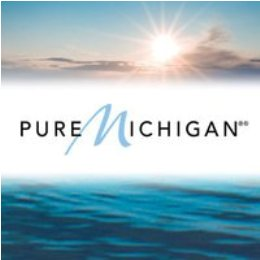
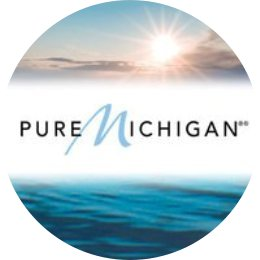
Added remaining photo and changed the styles to incorporate the photo- this included deleting some media queries. Modified some of the images in my timeline to make them cleaner looking within the bubbles

diff --git a/index.html b/index.html
@@ -96,6 +96,9 @@
                   <br />
                 -Will Durant</span>
                 </h1>
+                <h2 class="wp2">
+                  My Skills
+                </h2>
                 <div class="features-wrapper">
                   <div class="col-md-3 wp2">
                     <div class="icon">
@@ -272,35 +275,35 @@
                     <div class="col-md-4 wp4">
                       <div class="overlay-effect effects clearfix">
                         <div class="img">
-                          <img src="img/kitty.jpg" alt="Portfolio Item">
+                          <img src="img/starBread.jpg" alt="Portfolio Item">
                           <div class="overlay">
-                            <a href="#" class="expand"><i class="fa fa-search"></i><br>Patience, Grasshopper</a>
+                            <a class="expand"><i class="fa fa-search"></i><br>Patience, Grasshopper</a>
                             <a class="close-overlay hidden">x</a>
                           </div>
                         </div>
                       </div>
                       <h2>More to Come</h2>
-                      <p>But meanwhile enjoy a picture of my kitty, Amunet!</p>
+                      <p>But meanwhile, enjoy a picture of some black raspberry star bread I made!</p>
                     </div>
                     <div class="col-md-4 wp4 delay-05s">
                       <div class="overlay-effect effects clearfix">
                         <div class="img">
-                          <img src="img/starBread.jpg" alt="Portfolio Item">
+                          <img src="img/kitty.jpg" alt="Portfolio Item">
                           <div class="overlay">
-                            <a href="#" class="expand"><i class="fa fa-search"></i><br>Patience, Grasshopper</a>
+                            <a class="expand"><i class="fa fa-search"></i><br>Patience, Grasshopper</a>
                             <a class="close-overlay hidden">x</a>
                           </div>
                         </div>
                       </div>
                       <h2>More to Come</h2>
-                      <p>Also enjoy a picture of some black raspberry star bread I made!</p>
+                      <p>Also, enjoy a picture of my super cute rambunctious kitty, Amunet!</p>
                     </div>
                     <div class="col-md-4 wp4 delay-1s">
                       <div class="overlay-effect effects clearfix">
                         <div class="img">
                           <img src="img/sushi.jpg" alt="Portfolio Item">
                           <div class="overlay">
-                            <a href="#" class="expand"><i class="fa fa-search"></i><br>Patience, Grasshopper</a>
+                            <a class="expand"><i class="fa fa-search"></i><br>Patience, Grasshopper</a>
                             <a class="close-overlay hidden">x</a>
                           </div>
                         </div>
@@ -320,25 +323,25 @@
           <div class="container">
             <div class="row">
               <div class="col-md-12">
-              <div class="col-md-10 col-md-offset-1">
-                <div class="quote-slideshow">
-                  <figure class="show"><h2>“Live as if you were to die tomorrow. Learn as if you were to live forever.” </h2>
-                  <figcaption>
-                    - Mahatma Gandhi
-                  </figcaption>
-                  </figure>
-                  <figure><h2>“The difference between knowledge and wisdom is the former makes you a living, whilst the latter makes life worth living.”</h2>
-                  <figcaption>
-                    ― Habeeb Akande
-                  </figcaption>
-                  </figure>
-                  <figure><h2>"The capacity to learn is a gift; The ability to learn is a skill; The 
-                  willingness to learn is a choice.”</h2>
-                  <figcaption>
-                    ― Brian Herbert
-                  </figcaption>
-                  </figure>
-                </div>
+                <div class="col-md-10 col-md-offset-1">
+                  <div class="quote-slideshow">
+                    <figure class="show"><h2>“Live as if you were to die tomorrow. Learn as if you were to live forever.” </h2>
+                    <figcaption>
+                      - Mahatma Gandhi
+                    </figcaption>
+                    </figure>
+                    <figure><h2>“The difference between knowledge and wisdom is the former makes you a living, whilst the latter makes life worth living.”</h2>
+                    <figcaption>
+                      ― Habeeb Akande
+                    </figcaption>
+                    </figure>
+                    <figure><h2>"The capacity to learn is a gift; The ability to learn is a skill; The 
+                    willingness to learn is a choice.”</h2>
+                    <figcaption>
+                      ― Brian Herbert
+                    </figcaption>
+                    </figure>
+                  </div>
                 </div>
                 <span class="quote-prev circle"><i class="fa fa-angle-left fa-2x"></i></span>
                 <span class="quote-next circle"><i class="fa fa-angle-right fa-2x"></i></span>
@@ -353,7 +356,9 @@
             <div class="row">
               <div class="col-lg-12 text-center">
                 <h2 class="section-heading">About</h2>
-                <h3 class="section-subheading text-muted"><em>The road has been long, and I still have a ways to go, but I know whichever direction I choose, it will lead me to where I need to go.</em></h3>
+                <h3 class="section-subheading text-muted"><em>The road has been long, and I still have a ways to go, but I know whichever direction I choose,
+                <br  /> 
+                it will lead me to where I need to go.</em></h3>
               </div>
             </div>
             <div class="row">
@@ -387,7 +392,7 @@
                   </li>
                   <li class="timeline-inverted">
                     <div class="timeline-image">
-                      <a href="http://www.cdc.gov/" target="_blank"><img alt="Ptr" class="img-circle img-responsive" src="img/cdc.jpg" /></a>
+                      <a href="http://www.cdc.gov/" target="_blank"><img alt="CDC building" class="img-circle img-responsive" src="img/cdc.jpg" /></a>
                     </div>
                     <div class="timeline-panel">
                       <div class="timeline-heading">
@@ -400,7 +405,7 @@
                   </li>
                   <li>
                     <div class="timeline-image">
-                      <a href="http://teamtreehouse.com/" target="_blank"><img alt="Wyncode" class="img-circle img-responsive" src="img/coding.png" /></a>
+                      <a href="http://teamtreehouse.com/" target="_blank"><img alt="Treehouse Coding" class="img-circle img-responsive" src="img/coding.png" /></a>
                     </div>
                     <div class="timeline-panel">
                       <div class="timeline-heading">
@@ -464,9 +469,9 @@
                       <p>Please feel free to <a href="#contact">contact me</a>- I'd love to work with you!</p>
                       <div class="social">
                         <ul class="social-buttons">
-                          <li><a href="https://www.linkedin.com/pub/amy-dusek-bsn-rn/36/313/8b7" class="social-btn"><i class="fa fa-linkedin"></i></a></li>
-                          <li><a href="https://twitter.com/amlydu" class="social-btn"><i class="fa fa-twitter"></i></a></li>
-                          <li><a href="http://instagram.com/amlydu7211/" class="social-btn"><i class="fa fa-instagram"></i></a></li>
+                          <li><a href="https://www.linkedin.com/pub/amy-dusek-bsn-rn/36/313/8b7" target="_blank" class="social-btn"><i class="fa fa-linkedin"></i></a></li>
+                          <li><a href="https://twitter.com/amlydu" target="_blank" class="social-btn"><i class="fa fa-twitter"></i></a></li>
+                          <li><a href="http://instagram.com/amlydu7211/" target="_blank" class="social-btn"><i class="fa fa-instagram"></i></a></li>
                         </ul>
                       </div>
                     </div>
@@ -517,9 +522,9 @@
             <div class="row">
               <div class="col-md-12">
                 <ul class="social-buttons">
-                  <li><a href="https://www.linkedin.com/pub/amy-dusek-bsn-rn/36/313/8b7" class="social-btn"><i class="fa fa-linkedin"></i></a></li>
-                  <li><a href="https://twitter.com/amlydu" class="social-btn"><i class="fa fa-twitter"></i></a></li>
-                  <li><a href="http://instagram.com/amlydu7211/" class="social-btn"><i class="fa fa-instagram"></i></a></li>
+                  <li><a href="https://www.linkedin.com/pub/amy-dusek-bsn-rn/36/313/8b7" target="_blank" class="social-btn"><i class="fa fa-linkedin"></i></a></li>
+                  <li><a href="https://twitter.com/amlydu" target="_blank" class="social-btn"><i class="fa fa-twitter"></i></a></li>
+                  <li><a href="http://instagram.com/amlydu7211/" target="_blank" class="social-btn"><i class="fa fa-instagram"></i></a></li>
                 </ul>
               </div>
             </div>

diff --git a/css/styles.css b/css/styles.css
@@ -230,13 +230,14 @@ h1.arrow { font-size: 15px; text-transform: uppercase; color: #353535; letter-sp
 /* ==========================================================================
 Features
 ========================================================================== */
-.features-wrapper, .team-wrapper { margin: 70px 0 0; }
+.features h2 { margin-top: 45px}
+.features-wrapper, .team-wrapper { margin: 40px 0 0; }
 .shadow { text-shadow: rgb(55, 181, 161) 1px 1px, rgb(55, 181, 161) 2px 2px, rgb(55, 181, 161) 3px 3px, rgb(55, 181, 161) 4px 4px, rgb(55, 181, 161) 5px 5px, rgb(55, 181, 161) 6px 6px, rgb(55, 181, 161) 7px 7px, rgb(55, 181, 161) 8px 8px, rgb(55, 181, 161) 9px 9px, rgb(55, 181, 161) 10px 10px, rgb(55, 181, 161) 11px 11px, rgb(55, 181, 161) 12px 12px, rgb(55, 182, 162) 13px 13px, rgb(55, 183, 163) 14px 14px, rgb(56, 184, 164) 15px 15px, rgb(56, 185, 165) 16px 16px, rgb(56, 186, 166) 17px 17px, rgb(57, 187, 167) 18px 18px, rgb(57, 188, 168) 19px 19px, rgb(57, 189, 169) 20px 20px, rgb(58, 191, 170) 21px 21px, rgb(58, 192, 171) 22px 22px, rgb(58, 193, 172) 23px 23px, rgb(59, 194, 173) 24px 24px, rgb(59, 195, 174) 25px 25px, rgb(59, 196, 175) 26px 26px, rgb(60, 197, 176) 27px 27px, rgb(60, 198, 177) 28px 28px, rgb(60, 199, 178) 29px 29px, rgb(61, 201, 179) 30px 30px; }
 .icon { height: 154px; width: 154px; line-height: 152px; max-width: 100%; background: #3dc9b3; border-radius: 50%; -o-border-radius: 50%; -moz-border-radius: 50%; -webkit-border-radius: 50%; display: block; color: #fff; font-size: 55px; text-align: center; vertical-align: middle; position: relative; margin: 0 auto 20px; }
 /* ==========================================================================
 iPhone Section
 ========================================================================== */
-.iphone { width: 50%; background: #f3f5f8; float: left; height: 100%; box-shadow: inset -15px -11px 40px -6px rgba(0, 0, 0, 0.1); -moz-box-shadow: inset -15px -11px 40px -6px rgba(0, 0, 0, 0.1); -webkit-box-shadow: inset -15px -11px 40px -6px rgba(0, 0, 0, 0.1); z-index: 1; }
+.iphone { width: 50%; background: #FFF; float: left; height: 100%; z-index: 1; }
 .fluid-white { width: 50%; background: #fff; float: right; height: 100%; z-index: 2; }
 .responsive-services { position: relative; }
 /* ==========================================================================
@@ -251,7 +252,7 @@ Swag
 Portfolio
 ========================================================================== */
 .effects { padding-left: 15px; }
-.effects .img { position: relative; margin-bottom: 50px; position: relative; z-index: 1; overflow: hidden; border: 2px solid rgba(61, 201, 179, .5); border-radius: 5px; }
+.effects .img { position: relative; margin-bottom: 50px; position: relative; z-index: 1; overflow: hidden; border: 6px solid rgba(61, 201, 179, .5); border-radius: 5px; }
 .effects .img:nth-child(n) { margin-right: 5px; }
 .effects .img:first-child { margin-left: -15px; }
 .effects .img:last-child { margin-right: 0; }
@@ -345,7 +346,7 @@ Waypoints
 /*.delay-1halfs { animation-delay: 1.5s; -webkit-animation-delay: 1.5s; }
 .delay-2s { animation-delay: 2s; -webkit-animation-delay: 2s; }
 .delay-2halfs { animation-delay: 2.5s; -webkit-animation-delay: 2.5s; }*/
-.wp3 { background: url('../img/iphone-bg.png') no-repeat center center; background-position: 200px 10px; height: 100%; }
+.wp3 { background: url('../img/iphone-bg-1.png') no-repeat center center;/* background-position: 200px 10px; */height: 100%; }
 /* ==========================================================================
 Timeline and Timeline Queries
 ========================================================================== */

diff --git a/js/scripts.js b/js/scripts.js
@@ -167,25 +167,24 @@ $(window).load(function() {
 /***************** Quote Slideshow ******************/
 
 $(document).ready(function(){
- 
-var counter = 0,
-$items = $('.quote-slideshow figure'),
-numItems = $items.length;
- 
-var showCurrent = function(){
-var itemToShow = Math.abs(counter%numItems);
-$items.removeClass('show');
-$items.eq(itemToShow).addClass('show');
-};
- 
-$('.quote-next').on('click', function(){
-counter++;
-showCurrent();
-});
- 
-$('.quote-prev').on('click', function(){
-counter--;
-showCurrent();
-});
+	var counter = 0,
+	$items = $('.quote-slideshow figure'),
+	numItems = $items.length;
+	 
+	var showCurrent = function(){
+		var itemToShow = Math.abs(counter%numItems);
+		$items.removeClass('show');
+		$items.eq(vaitemToShow).addClass('show');
+	};
+	 
+	$('.quote-next').on('click', function(){
+		counter++;
+		showCurrent();
+	});
+	 
+	$('.quote-prev').on('click', function(){
+		counter--;
+		showCurrent();
+	});
  
 });

diff --git a/css/queries.css b/css/queries.css
@@ -12,14 +12,10 @@
 }
 /* xGA iPad */
 @media screen and (max-width:1024px) {
-	.wp3 { background-position: 50px 0; }
 	.swag { background-attachment: scroll; }
 	.mailAmy { background-attachment: scroll; }
 }
-/* 1200px (Small Desktop, Netbook) */
-@media screen and (max-width:1280px) {
-	.wp3 { background-position: 50px 0; }
-}
+
 /* Bootstrap 990px Breakpoint to px 768px*/
 @media screen and (max-width:991px) { 
 	.iphone { display: none; }
